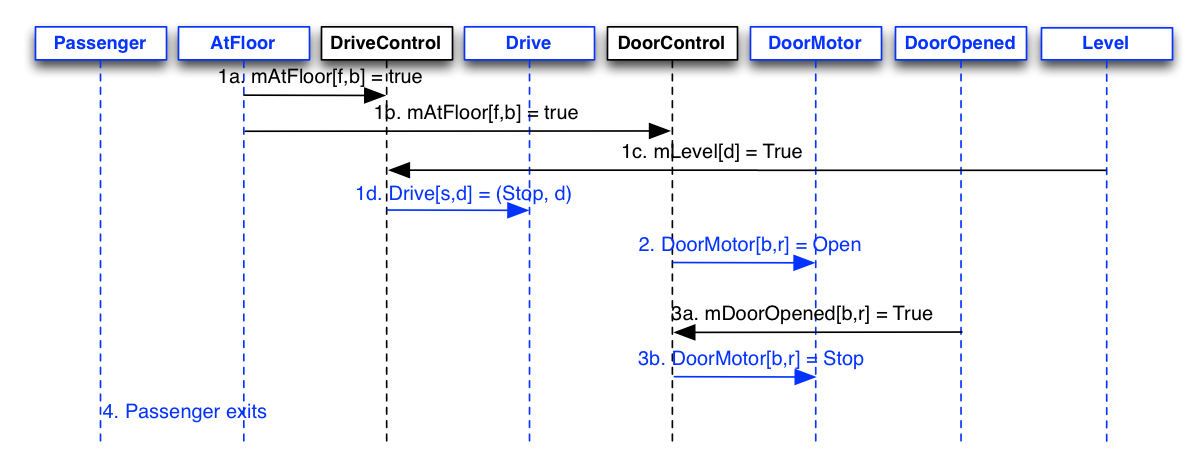
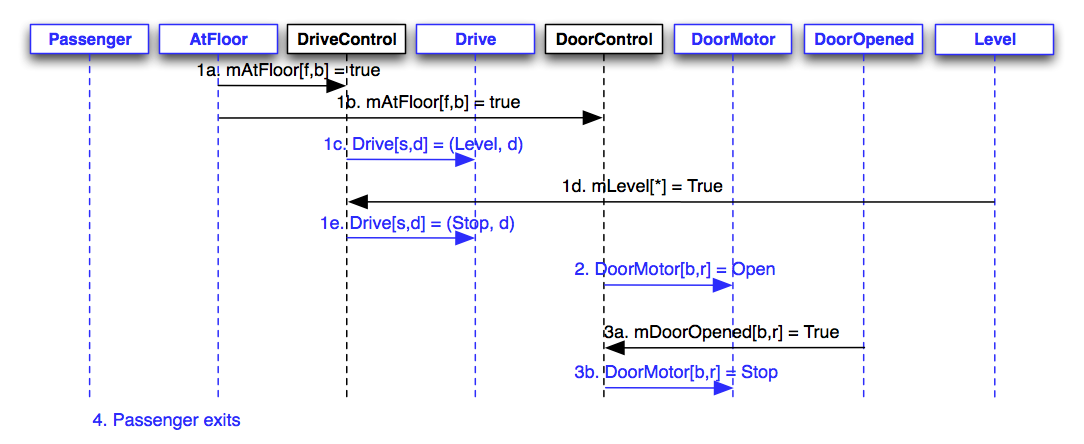
Fixed seq diag 4a to properly Level car before mLevel message is sent

diff --git a/portfolio/reqs/requirements2.html b/portfolio/reqs/requirements2.html
@@ -1148,9 +1148,6 @@
     doors
     shall open completely until the car is no longer overloaded.
     <h3> TIME-TRIGGERED BEHAVIORS: </h3>
-	6.6 &nbsp;&nbsp; If any mAtFloor[f,b] is True, then Drive[s,d] should be
-	set to (Level,d).
-	
 	
 	
     5.6 &nbsp;&nbsp; If any mAtFloor[f, b] is True and f equals
@@ -1457,6 +1454,17 @@
     longer
     overloaded.
     <h3> EVENT-TRIGGERED BEHAVIORS: </h3>
+	6.6 &nbsp;&nbsp; If any mAtFloor[f,b] is True, then Drive[s,d] shall be
+	set to (Level,d).
+	6.7 &nbsp;&nbsp; If mLevel[*] is True, then: <br>
+	&nbsp;&nbsp;&nbsp; 6.7.1 &nbsp; Drive[s,d] shall be commanded to (Stop,d);
+	<br>
+	&nbsp;&nbsp;&nbsp; 6.7.2 &nbsp; mDoorMotor[b,*] shall be commanded to Open.
+	6.8 
+	
+	
+	
+	
 	5.6 &nbsp;&nbsp; If any mAtFloor[f, b] is True and f equals
     mDesiredFloor.f, and mDriveSpeed = (0, d) or mDriveSpeed = (s, Stop)
     then: <br>
